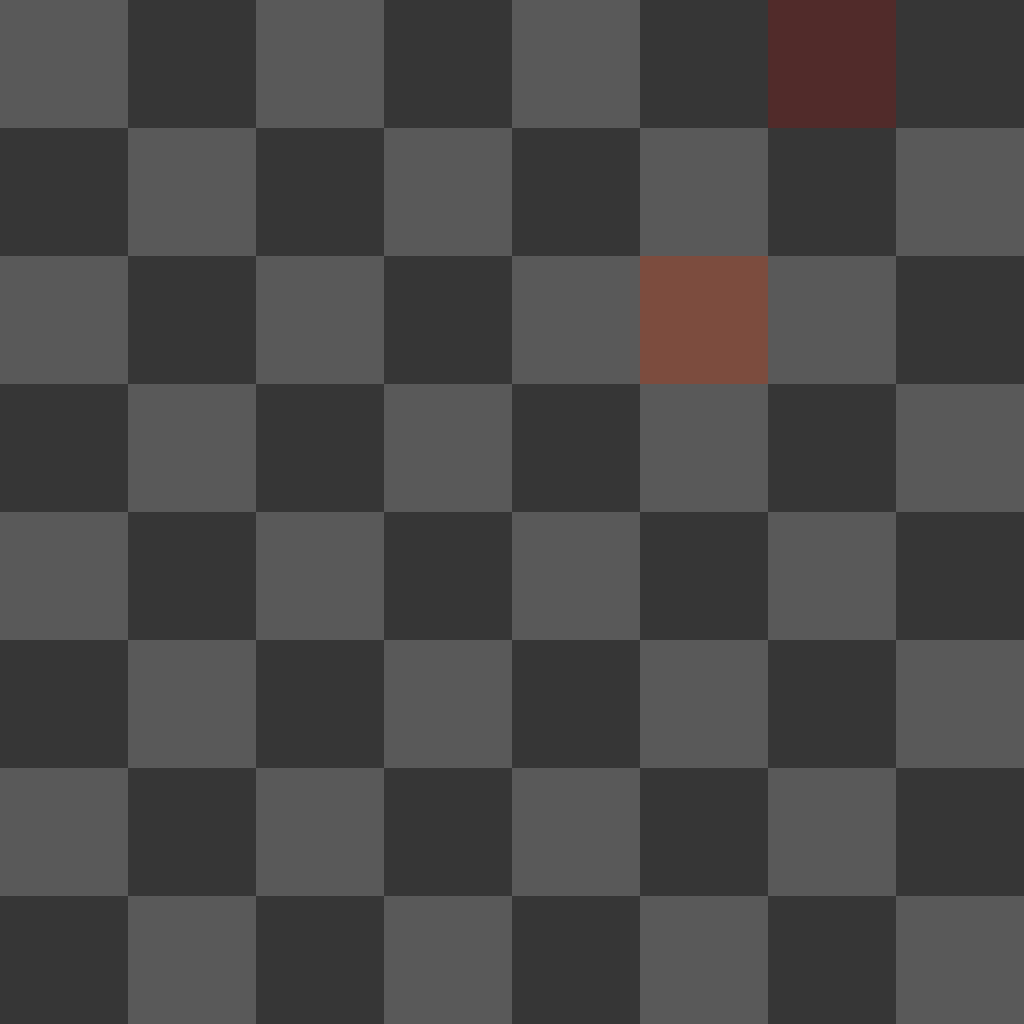
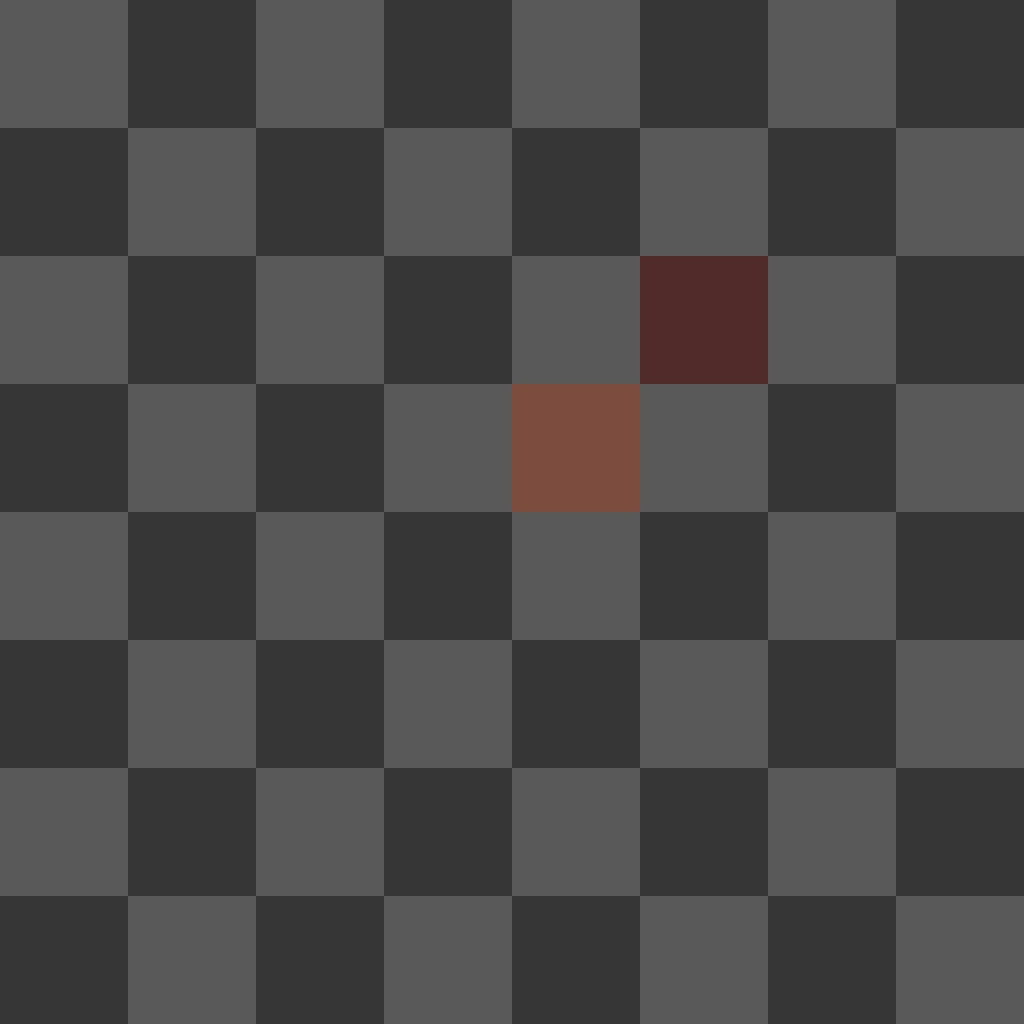
bug fix for detecting what colour the player is playing at

Changed region(s): [[0.75, 0.0, 0.875, 0.125], [0.625, 0.25, 0.75, 0.375], [0.5, 0.375, 0.625, 0.5]]

diff --git a/src/board/mod.rs b/src/board/mod.rs
@@ -100,6 +100,9 @@ pub async fn parse_html<'a>(
 ) -> Result<([[u8; 8]; 8], &'a str, Vec<(f32, f32)>), Error> {
     let url = url.lock().await;
     let url = url.to_string();
+
+	let channel = channel.lock().await;
+	let channel = channel.to_string();
     let mut board = [[0u8; 8]; 8];
     // set board at 3, 5 to 1
     let html = get_html(url).await?;
@@ -136,14 +139,14 @@ pub async fn parse_html<'a>(
 
 
     // let orientation_w = dom.get_elements_by_class_name("orientation-black").next();
-    let classes = orientation_b
-        .get(dom.parser())
-        .unwrap()
-        .as_tag()
-        .unwrap()
-        .attributes()
-        .class()
-        .unwrap();
+    // let classes = orientation_b
+    //     .get(dom.parser())
+    //     .unwrap()
+    //     .as_tag()
+    //     .unwrap()
+    //     .attributes()
+    //     .class()
+    //     .unwrap();
 
     // there should be 2
     let last_moves = dom.get_elements_by_class_name("last-move");
@@ -179,6 +182,28 @@ pub async fn parse_html<'a>(
         last_moves_x_y_vec.push((x, y));
     }
 
+	let a = dom.get_elements_by_class_name("player");
+
+	let mut classes = None;
+	for i in a {
+		// if child a haas href of '/@/{channel}' then we are player
+		let child = i.get(dom.parser()).unwrap().as_tag().unwrap().children().all(dom.parser()).first().unwrap();
+		let href = child.as_tag().unwrap().attributes().get("href").unwrap().unwrap();
+		let href = str::from_utf8(href.as_bytes()).unwrap();
+		if href.to_lowercase().contains(channel.to_lowercase().as_str()) {
+			println!("Player found at index: {:?}", i);
+			classes = Some(i.get(dom.parser()).unwrap().as_tag().unwrap().attributes().class().unwrap());
+			break;
+		}
+	}
+
+	if !classes.is_some() {
+		return Err(Error::BasicError("Classes not found".to_string()));
+	}
+
+	let classes = classes.unwrap();
+
+	// bug here, player is not alwyas the first in the list.
 	let nclasses = classes.as_utf8_str();
 	let nclasses = nclasses.split_whitespace().collect::<Vec<&str>>();
 	println!("classess: {:?}", nclasses.clone());
@@ -360,15 +385,17 @@ pub async fn help<'a>(channel: Arc<Mutex<&'a &str>>) -> Result<GetStockFishRespo
 		None => 0.0,
 	};
 	let mut chance_to_win;
-	if (stockfish.evaluation.is_some()) {
+	if stockfish.evaluation.is_some() {
 		chance_to_win = (stockfish.evaluation.unwrap()) / 153.0;
 		if mode == "b" {
 			chance_to_win = 1.0 - chance_to_win;
 		}
-		chance_to_win = (chance_to_win * 100.0) - 100.0;
+		chance_to_win = chance_to_win * 100.0;
 	} else {
 		chance_to_win = 0.0;
 	}
+
+	println!("chance to win: {:?}", chance_to_win);
 
     println!("Best Move: {:?}", bestmove);
     println!("Ponder: {:?}", ponder);
@@ -517,10 +544,12 @@ pub fn gen_board(
     let mut y = best_move[1] as u8 - 49;
 
     // if mode is 'b' then we need to revese the x
-    if mode == "w" {
+    if mode == "b" {
         x = 7 - x;
-        y = 7 - y;
-    }
+        // y = 7 - y;
+    }  else {
+		y = 7 - y;
+	}
 
     let x = x as usize;
     let y = y as usize;
@@ -550,10 +579,12 @@ pub fn gen_board(
     let mut y = best_move[3] as u8 - 49;
 
     // if mode is 'b' then we need to revese the x
-    if mode == "w" {
+    if mode == "b" {
         x = 7 - x;
-        y = 7 - y;
-    }
+        // y = 7 - y;
+    } else {
+		y = 7 - y;
+	}
 
     let x = x as usize;
     let y = y as usize;

diff --git a/src/main.rs b/src/main.rs
@@ -324,6 +324,8 @@ impl EventHandler for Handler {
 			description.push("You are losing by ");
 			description.push(format!("{:.2}%", chance_to_win));
 		} else {
+			description.push("equal");
+
 			println!("You are equal.");
 		}
 			description.push("\n");
